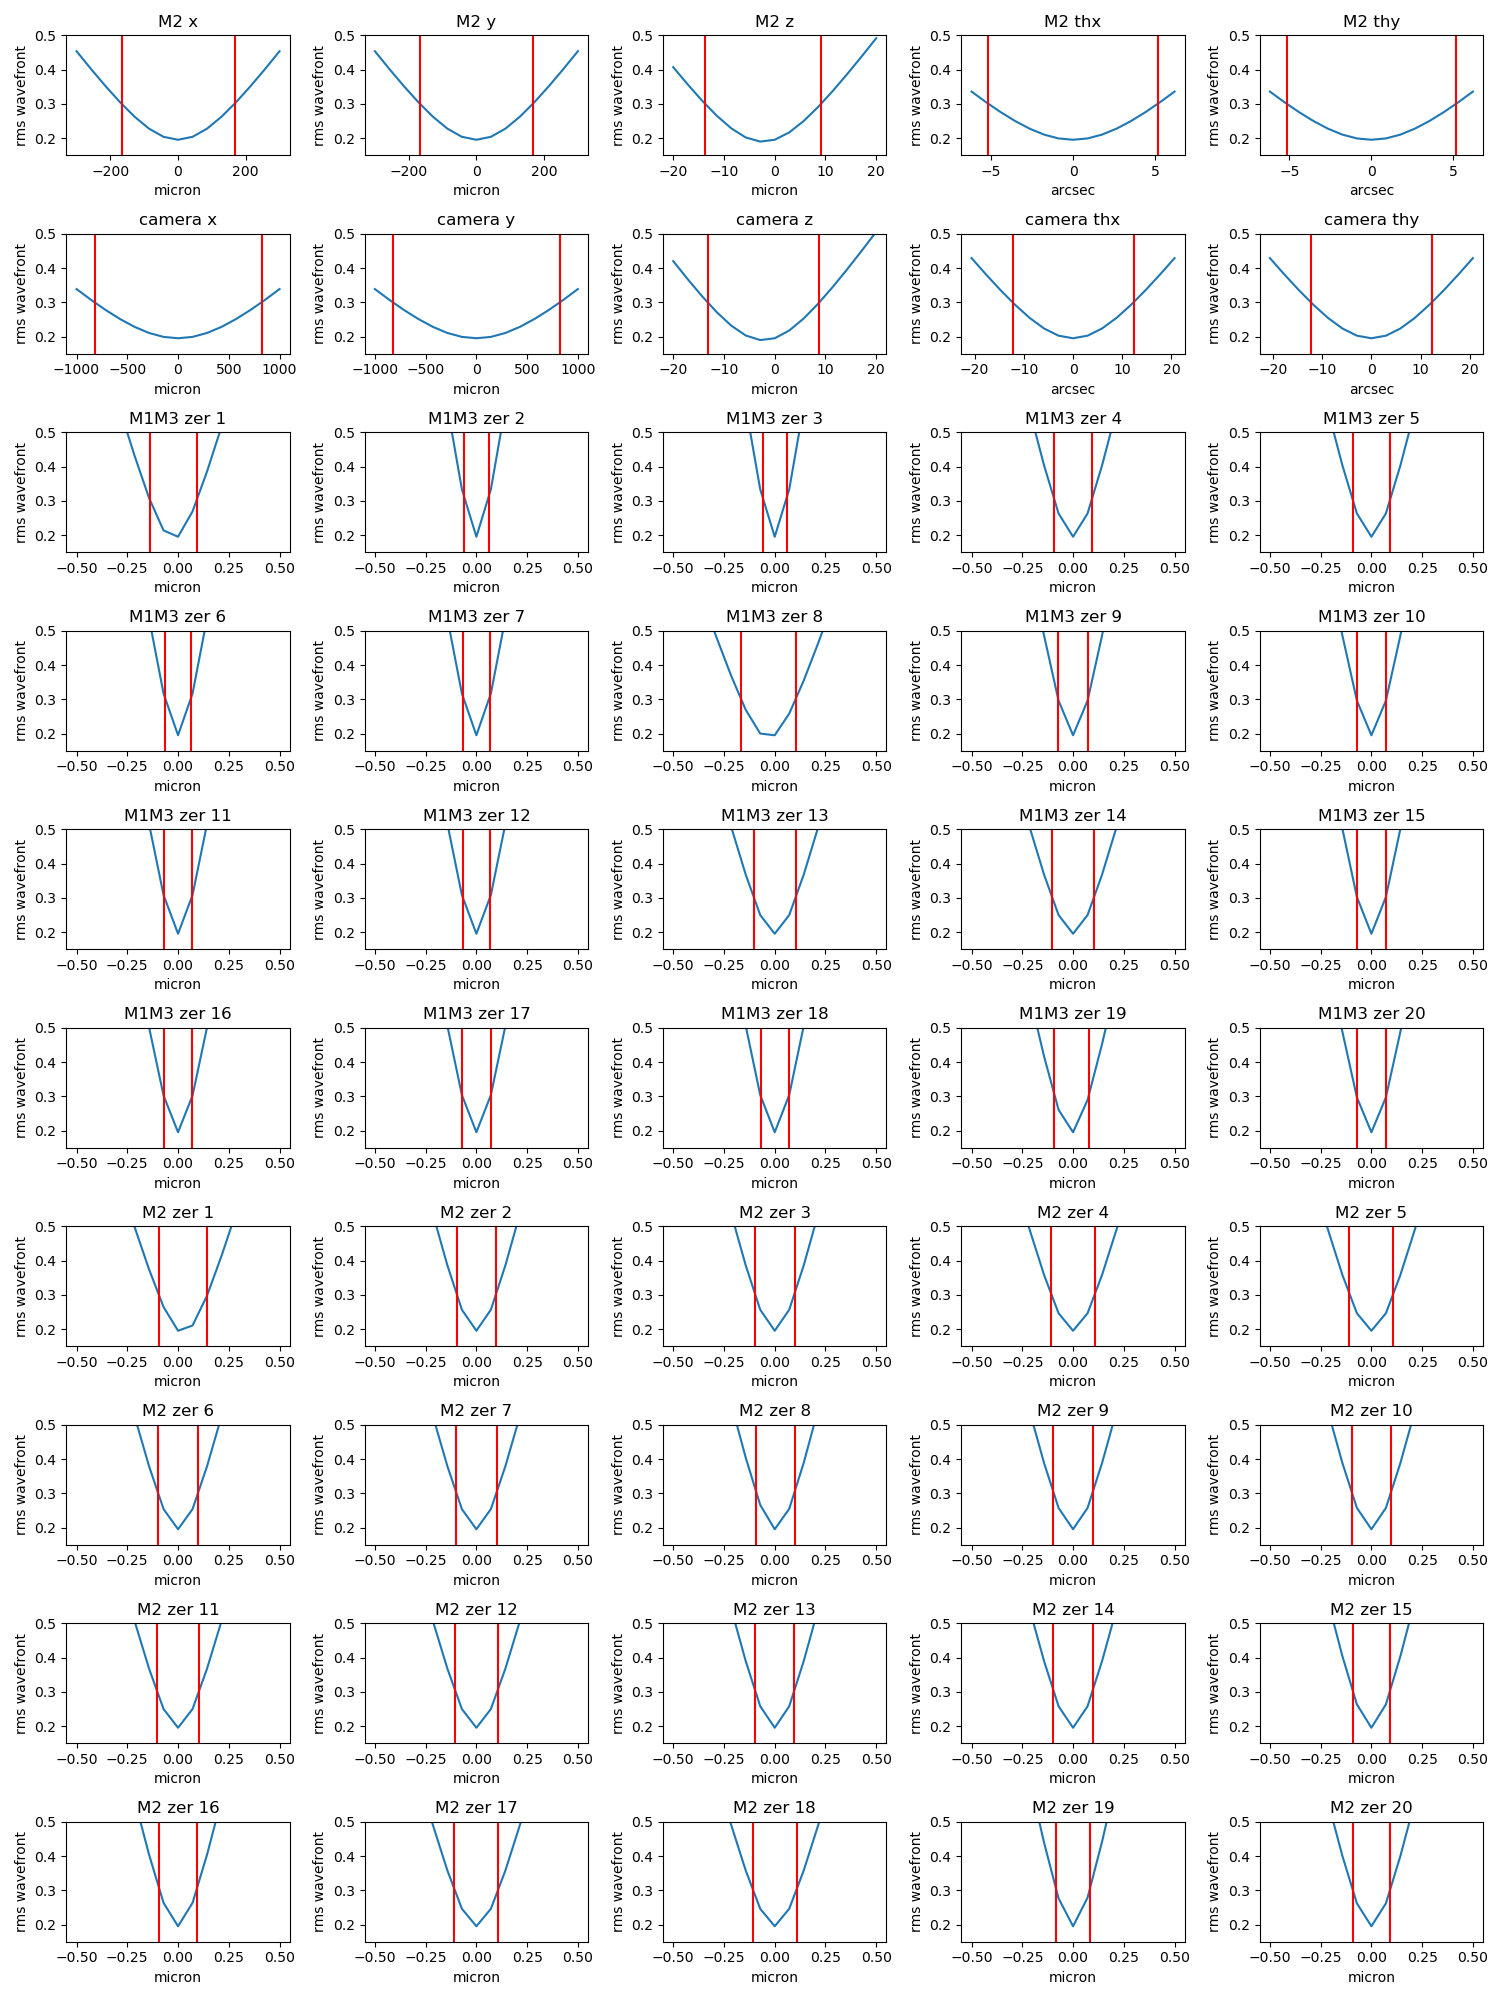
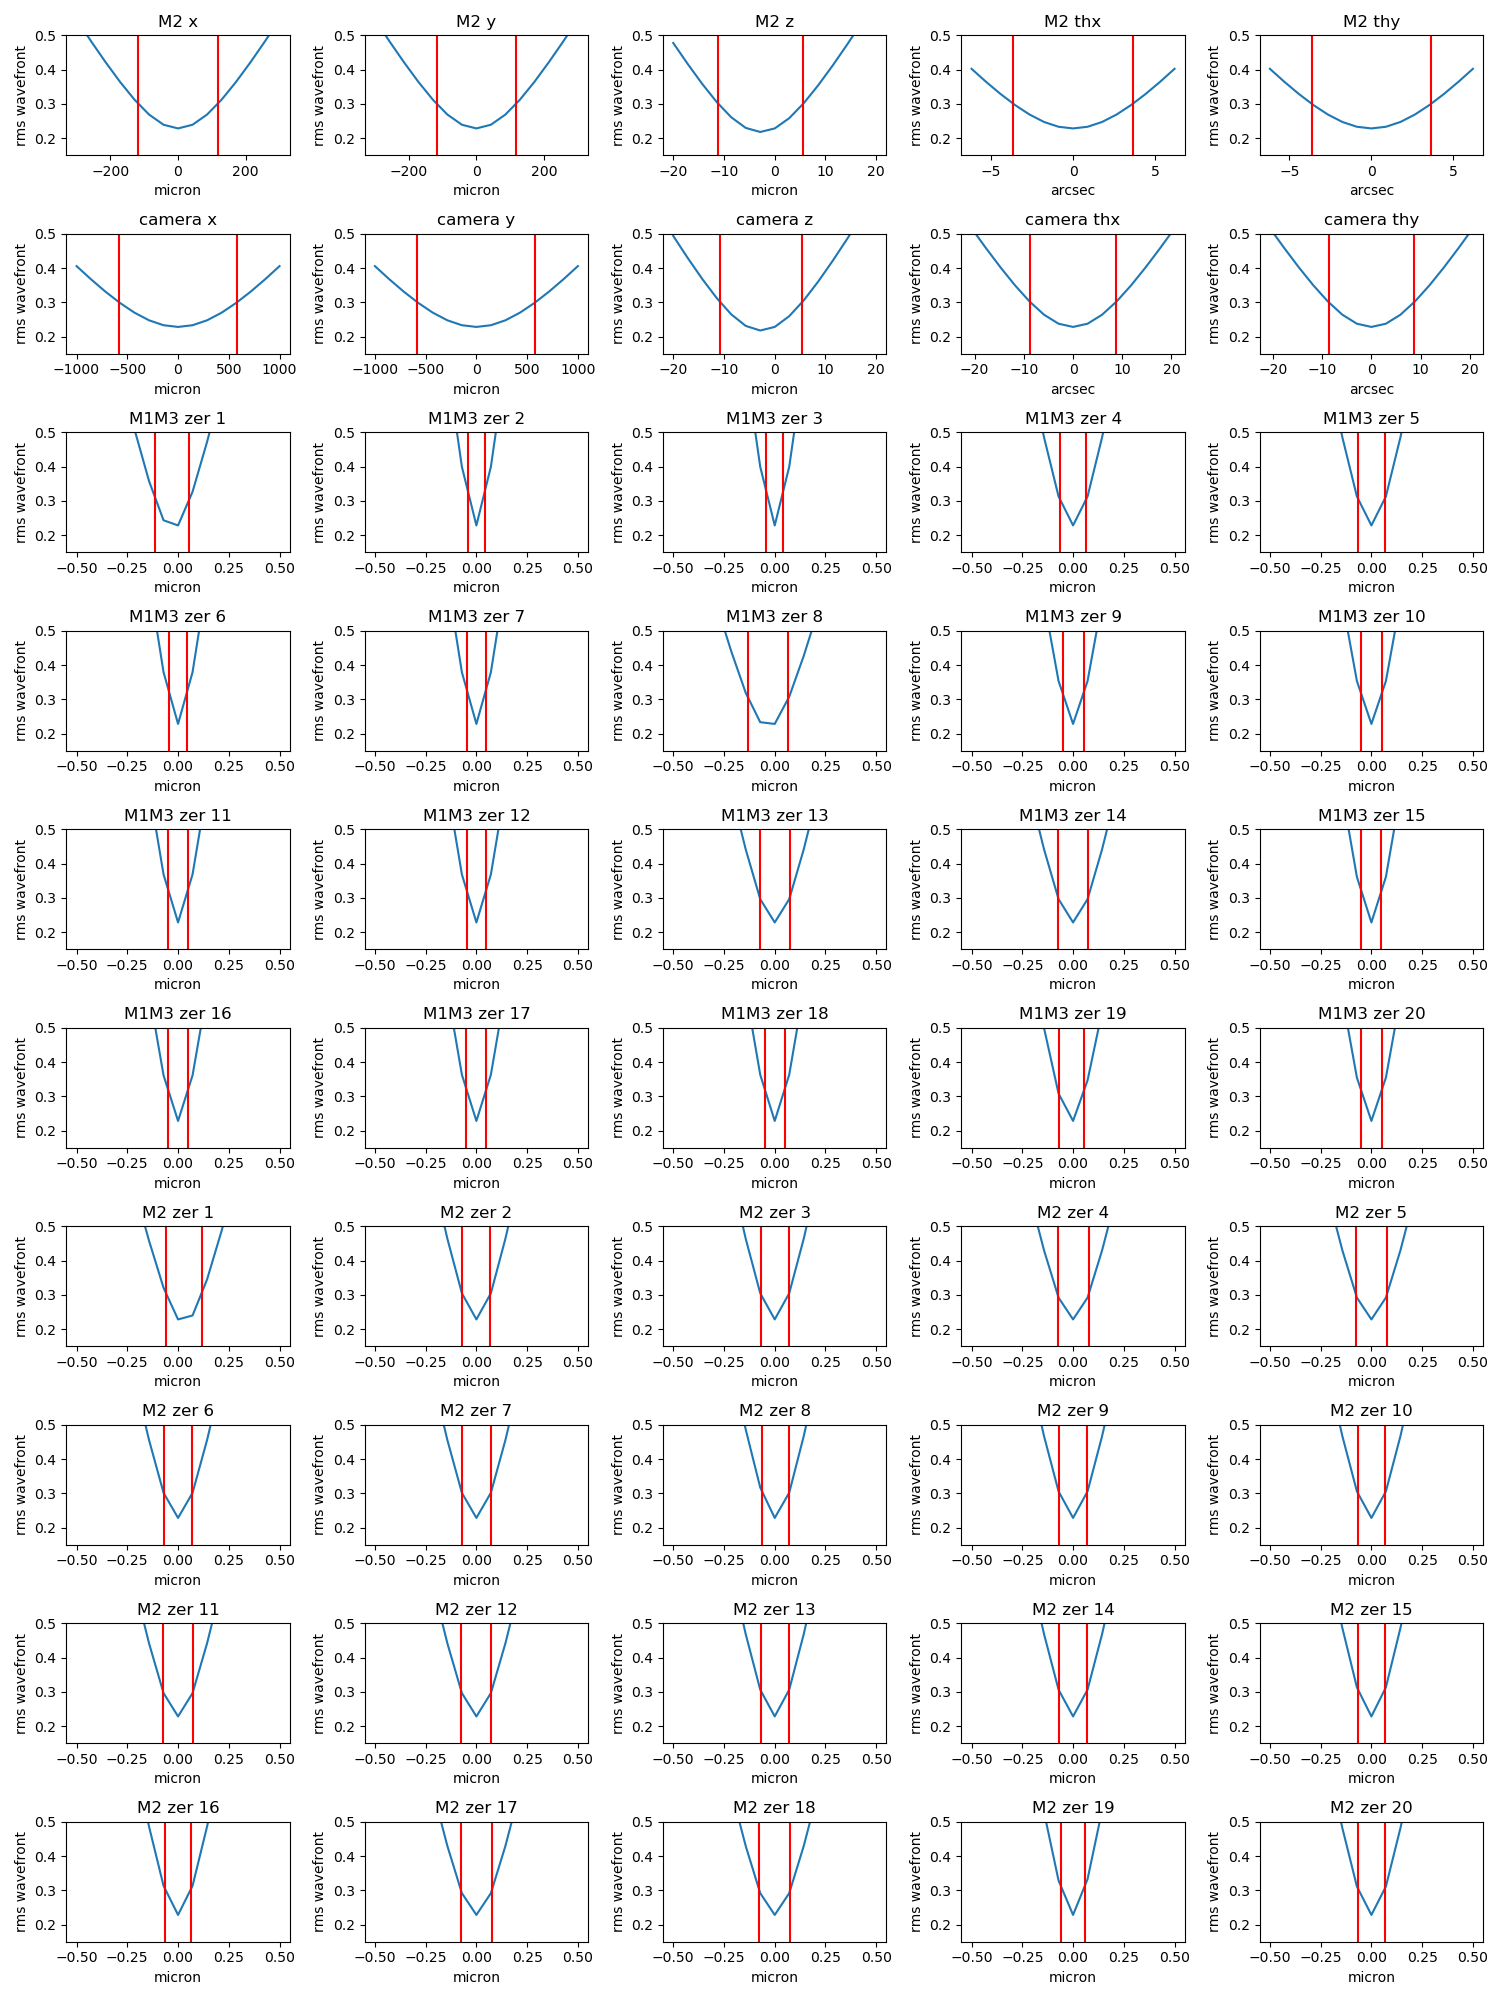
updated rms and norm to r band

diff --git a/wfTel.py b/wfTel.py
@@ -17,56 +17,56 @@ wavelength_dict = dict(
 )
 
 norm = {
-    "M2 x":            [-0.000166,   0.000166],  # meters
-    "M2 y":            [-0.000166,   0.000166],
-    "M2 z":            [-1.35e-05,   9.14e-06],
-    "M2 thx":          [-2.49e-05,   2.49e-05],  # radians
-    "M2 thy":          [-2.49e-05,   2.49e-05],
-    "camera x":        [-0.000817,   0.000817],  # meters
-    "camera y":        [-0.000817,   0.000817],
-    "camera z":        [-1.31e-05,    8.8e-06],
-    "camera thx":      [-5.92e-05,   5.92e-05],  # radians
-    "camera thy":      [-5.92e-05,   5.92e-05],
-    "M1M3 zer 1":       [-1.38e-07,    9.18e-08],
-    "M1M3 zer 2":       [-6.01e-08,   6.01e-08],
-    "M1M3 zer 3":       [-6.01e-08,   6.01e-08],
-    "M1M3 zer 4":       [-9.22e-08,   9.22e-08],
-    "M1M3 zer 5":       [-9.22e-08,   9.22e-08],
-    "M1M3 zer 6":       [-6.51e-08,   6.51e-08],
-    "M1M3 zer 7":       [-6.51e-08,   6.51e-08],
-    "M1M3 zer 8":       [-1.66e-07,   1.04e-07],
-    "M1M3 zer 9":       [-7.31e-08,   7.31e-08],
-    "M1M3 zer 10":      [-7.31e-08,   7.31e-08],
-    "M1M3 zer 11":      [-6.82e-08,   6.82e-08],
-    "M1M3 zer 12":      [-6.82e-08,   6.82e-08],
-    "M1M3 zer 13":      [-1.04e-07,   1.04e-07],
-    "M1M3 zer 14":      [-1.04e-07,   1.04e-07],
-    "M1M3 zer 15":      [-7.04e-08,   7.04e-08],
-    "M1M3 zer 16":      [-7.04e-08,   7.04e-08],
-    "M1M3 zer 17":      [-6.98e-08,   6.98e-08],
-    "M1M3 zer 18":      [-6.98e-08,   6.98e-08],
-    "M1M3 zer 19":      [-9.15e-08,   7.66e-08],
-    "M1M3 zer 20":      [-7.27e-08,   7.27e-08],
-    "M2 zer 1":         [-9.62e-08,   1.44e-07],
-    "M2 zer 2":         [-9.77e-08,   9.77e-08],
-    "M2 zer 3":         [-9.77e-08,   9.77e-08],
-    "M2 zer 4":         [-1.08e-07,   1.08e-07],
-    "M2 zer 5":         [-1.08e-07,   1.08e-07],
-    "M2 zer 6":         [   -1e-07,      1e-07],
-    "M2 zer 7":         [   -1e-07,      1e-07],
-    "M2 zer 8":         [-9.07e-08,   9.79e-08],
-    "M2 zer 9":         [-9.69e-08,   9.69e-08],
-    "M2 zer 10":        [-9.69e-08,   9.69e-08],
-    "M2 zer 11":        [-1.04e-07,   1.04e-07],
-    "M2 zer 12":        [-1.04e-07,   1.04e-07],
-    "M2 zer 13":        [-9.65e-08,   9.65e-08],
-    "M2 zer 14":        [-9.65e-08,   9.65e-08],
-    "M2 zer 15":        [ -9.2e-08,    9.2e-08],
-    "M2 zer 16":        [ -9.2e-08,    9.2e-08],
-    "M2 zer 17":        [-1.08e-07,   1.08e-07],
-    "M2 zer 18":        [-1.08e-07,   1.08e-07],
-    "M2 zer 19":        [-8.29e-08,   8.18e-08],
-    "M2 zer 20":        [-9.31e-08,   9.31e-08]
+    "M2 x":            [-0.000118,   0.000118],  # meters
+    "M2 y":            [-0.000118,   0.000118],
+    "M2 z":            [-1.11e-05,   1.11e-05],
+    "M2 thx":          [-1.76e-05,   1.76e-05],  # radians
+    "M2 thy":          [-1.76e-05,   1.76e-05],
+    "camera x":        [-0.00058,   0.00058],  # meters
+    "camera y":        [-0.00058,     0.00058],
+    "camera z":        [-1.07e-05,   5.39e-06],
+    "camera thx":      [-4.2e-05,     4.2e-05],  # radians
+    "camera thy":      [-4.2e-05,     4.2e-05],
+    "M1M3 zer 1":       [-1.11e-07,   5.64e-08], # meters
+    "M1M3 zer 2":       [-4.24e-08,   4.24e-08],
+    "M1M3 zer 3":       [-4.24e-08,   4.24e-08],
+    "M1M3 zer 4":       [-6.5e-08,    6.5e-08],
+    "M1M3 zer 5":       [-6.5e-08,    6.5e-08],
+    "M1M3 zer 6":       [-4.59e-08,   4.59e-08],
+    "M1M3 zer 7":       [-4.59e-08,   4.59e-08],
+    "M1M3 zer 8":       [-1.3e-07,   6.62e-08],
+    "M1M3 zer 9":       [-5.15e-08,   5.15e-08],
+    "M1M3 zer 10":      [-5.15e-08,   5.15e-08],
+    "M1M3 zer 11":      [-4.81e-08,   4.81e-08],
+    "M1M3 zer 12":      [-4.81e-08,   4.81e-08],
+    "M1M3 zer 13":      [-7.36e-08,   7.36e-08],
+    "M1M3 zer 14":      [-7.36e-08,   7.36e-08],
+    "M1M3 zer 15":      [-4.97e-08,   4.97e-08],
+    "M1M3 zer 16":      [-4.97e-08,   4.97e-08],
+    "M1M3 zer 17":      [-4.92e-08,   4.92e-08],
+    "M1M3 zer 18":      [-4.92e-08,   4.92e-08],
+    "M1M3 zer 19":      [-6.77e-08,   5.15e-08],
+    "M1M3 zer 20":      [-5.13e-08,   5.13e-08],
+    "M2 zer 1":         [-5.91e-08,   1.17e-07],
+    "M2 zer 2":         [-6.89e-08,   6.89e-08],
+    "M2 zer 3":         [-6.89e-08,   6.89e-08],
+    "M2 zer 4":         [-7.64e-08,   7.64e-08],
+    "M2 zer 5":         [-7.64e-08,   7.64e-08],
+    "M2 zer 6":         [-7.06e-08,   7.06e-08],
+    "M2 zer 7":         [-7.06e-08,   7.06e-08],
+    "M2 zer 8":         [-6.28e-08,   7.04e-08],
+    "M2 zer 9":         [-6.83e-08,   6.83e-08],
+    "M2 zer 10":        [-6.83e-08,   6.83e-08],
+    "M2 zer 11":        [-7.36e-08,   7.36e-08],
+    "M2 zer 12":        [-7.36e-08,   7.36e-08],
+    "M2 zer 13":        [-6.8e-08,    6.8e-08],
+    "M2 zer 14":        [-6.8e-08,    6.8e-08],
+    "M2 zer 15":        [-6.48e-08,   6.48e-08],
+    "M2 zer 16":        [-6.48e-08,   6.48e-08],
+    "M2 zer 17":        [-7.65e-08,   7.65e-08],
+    "M2 zer 18":        [-7.65e-08,   7.65e-08],
+    "M2 zer 19":        [-5.9e-08,   5.72e-08],
+    "M2 zer 20":        [-6.57e-08,   6.57e-08],
 }
 
 with open("mirrorModes.pkl", 'rb') as f:

diff --git a/rmswf.py b/rmswf.py
@@ -6,7 +6,7 @@ from tqdm import tqdm
 
 from wfTel import LSSTFactory
 
-factory = LSSTFactory('i')
+factory = LSSTFactory('r')
 
 amplitudes = [300e-6]*2   # M2 x/y
 amplitudes += [20e-6]     # M2 z
